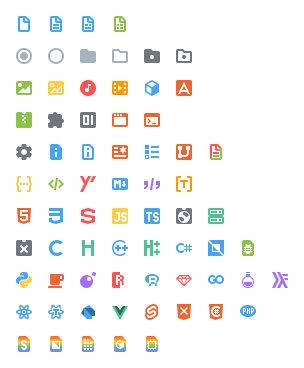
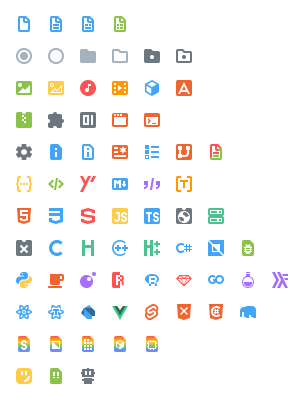
`1.1.3`

diff --git a/CHANGELOG.md b/CHANGELOG.md
@@ -1,13 +1,26 @@
 # Change Log
 
+## [1.1.3]
+
+- Added favicon icon
+- Added aseprite icon
+- Added robot icon for `robots.txt`
+- Fish now uses the shell icon
+- `.git/` now shows as a dot folder icon
+- Python icon now has square eyes
+- PHP changed to an elephant icon (still looks kind of out of place but who uses
+  php anyways)
+
 ## [1.1.2]
 
 - More blocky binary file icon
 - `.dat` files now use the binary icon
 - Added lines the the diff icon
 - Added a font icon
-- Update the vertex shader icon to have a consistent line thickness and be more interesting
-- Made the web assembly icon look less like web3 (Now it looks like the default favicon in chrome)
+- Update the vertex shader icon to have a consistent line thickness and be more
+  interesting
+- Made the web assembly icon look less like web3 (Now it looks like the default
+  favicon in chrome)
 - Tweaked the json icon to have square dots instead of dot dots
 - Tweaked sql icon in the kid of way as the json icon
 
@@ -23,7 +36,8 @@
 
 ## [1.1.0]
 
-- New build system so adding new icons is easier and icons work even if you don't have the required extension
+- New build system so adding new icons is easier and icons work even if you
+  don't have the required extension
 - Added icons for
   - R
   - SQL
